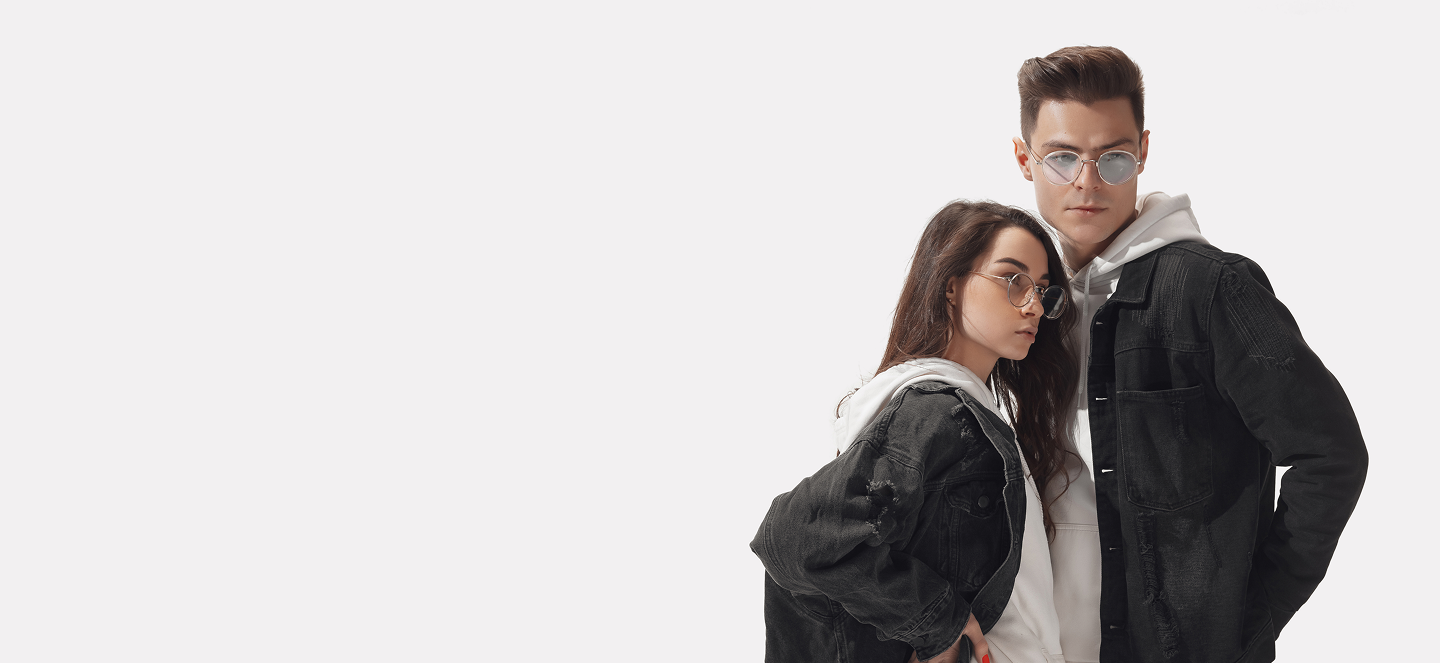
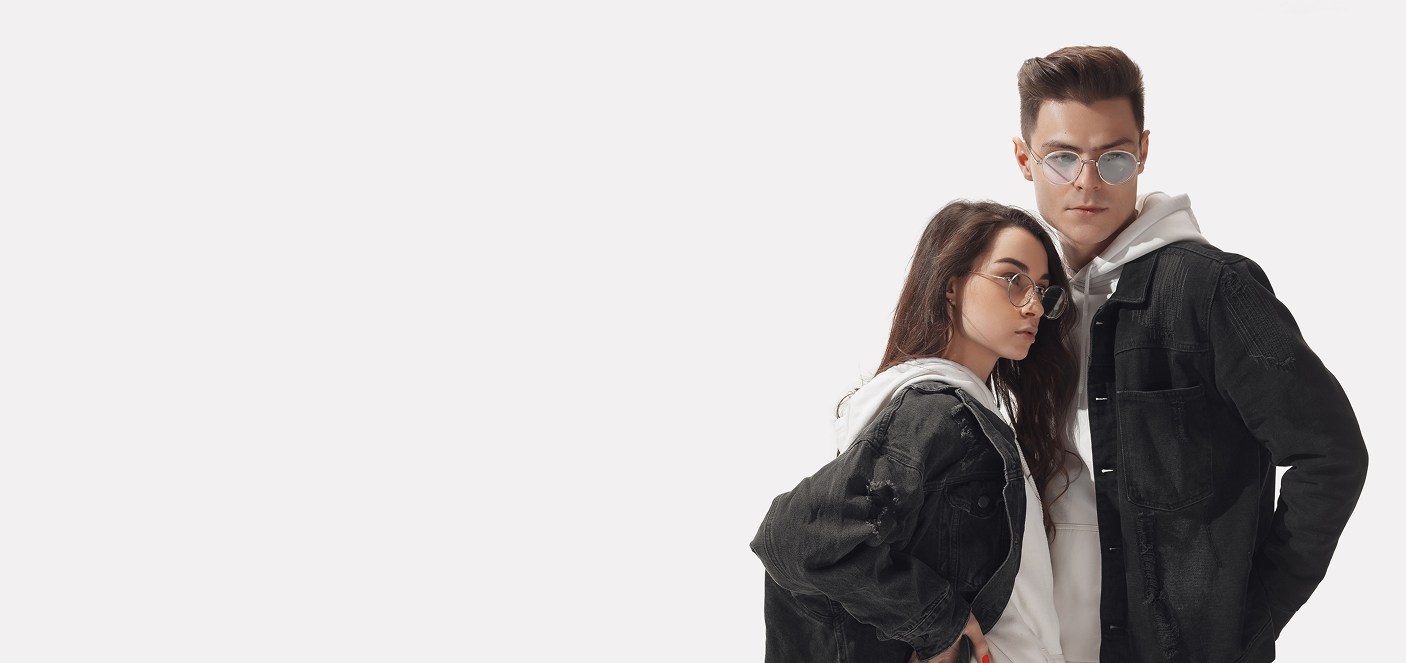
Add files via upload

Changed region(s): [[0.5199, 0.0603, 0.9787, 1.0], [0.5811, 0.905, 0.6117, 0.9351]]

diff --git a/Дипломный-проект/Diplom.html b/Дипломный-проект/Diplom.html
@@ -119,7 +119,9 @@
 		<div class="container hero__container">
 				<div class="hero__main-info">
 					<h1 class="hero__title title-large">
-						НАЙДИ ОДЕЖДУ КОТОРАЯ ВЫРАЗИТ ТВОЙ СТИЛЬ
+						НАЙДИ ОДЕЖДУ
+						КОТОРАЯ ВЫРАЗИТ
+						ТВОЙ СТИЛЬ
 					</h1>
 				<p class="hero__main-info-text text-comment">
 					Просмотрите наш набор тщательно сделанной одежды, созданный
@@ -152,9 +154,14 @@
 							</div>
 						</div>
 						<div class="hero__img">
-							<img src="./Images/fashion-menschen.png"
+							<img class="hero__img-picture-people" src="./Images/fashion-menschen.png"
 							 alt="">
-						</div>
+							 <img class="hero__img-picture-star star-1" src="./icons/black-star-hero.svg" alt="">
+							 <img class="hero__img-picture-star star-2" src="./icons/black-star-hero.svg" alt="">
+							 	<img class="hero__img-picture-people-small" src="./Images/fashion-menschen-small.png"
+							 alt="">
+							</div>
+							</div>
 					
 			</section>
 			<section class="brands">
@@ -192,12 +199,13 @@
 							</div>
 							<div class="brands-list-second-group">
 							<li class="brands-list-item">
-								<a href="#"
-									><svg id="prada" width="194" height="32">
+								<a href="#">
+									<svg id="prada" width="194" height="32">
 										<use
 											class="brands-icon-link--prada"
 											href="../icons/sprite-brands.svg#Prada"
-										></use></svg
+										></use>
+										</svg
 								></a>
 							</li>
 							<li class="brands-list-item">
@@ -447,25 +455,7 @@
 						</div>
 						
 				<div class="reviews__list swiper reviews__slider">
-					<divd class="swiper-wrapper reviews__list">
-							<article class="swiper-slide reviews__list-item">
-						<div class="reviews__slide-inner">
-						<div class="reviews__list-item-stars">
-						<svg class="reviews__list-item-stars-5">
-					<use	
-						href="./icons/sprite-stars.svg#5-stars">
-					</use>
-			</svg>	
-			</div>
-			<div class="reviews__list-item-name">
-				<p class="reviews__list-item-name-text">Виталий У.</p>
-			<img  class="reviews__list-item-name-check-mark" width="24" height="24" src="./icons/check-mark.svg" alt="белая галочка на зелёном фоне">
-			</div>
-			<p class="reviews__list-item-comment text-comment">
-				«Я в восторге от качества и стиля одежды, которую получил от Shop.co. От повседневных вещей до элегантных платьев — каждая покупка превзошла мои ожидания.»
-			</p>
-			</div>
-					</article>
+					<div class="swiper-wrapper reviews__list">
 					<article class="swiper-slide reviews__list-item">
 						<div class="reviews__slide-inner">
 						<div class="reviews__list-item-stars">
@@ -521,25 +511,8 @@
 			</p>
 			</div>
 					</article>
-					<article class="swiper-slide reviews__list-item">
-						<div class="reviews__slide-inner">
-						<div class="reviews__list-item-stars">
-						<svg class="reviews__list-item-stars-5">
-					<use	
-						href="./icons/sprite-stars.svg#5-stars">
-					</use>
-			</svg>	
-			</div>
-			<div class="reviews__list-item-name">
-				<p class="reviews__list-item-name-text">Виталий У.</p>
-			<img  class="reviews__list-item-name-check-mark" width="24" height="24" src="./icons/check-mark.svg" alt="белая галочка на зелёном фоне">
-			</div>
-			<p class="reviews__list-item-comment text-comment">
-				«Я в восторге от качества и стиля одежды, которую получил от Shop.co. От повседневных вещей до элегантных платьев — каждая покупка превзошла мои ожидания.»
-			</p>
-			</div>
-					</article>
-					</divd>
+
+					</div>
 					
 				</div>
 				</div>

diff --git a/Дипломный-проект/css/Blocks/hero.css b/Дипломный-проект/css/Blocks/hero.css
@@ -1,13 +1,14 @@
 .hero {
 	background: #f2f0f1;
 	z-index: -1;
+	position: relative;
 }
 
 .hero__container {
 	display: flex;
 }
 
-@media (width <= 992px) {
+@media (width <= 1440px) {
 	.hero__container {
 		flex-direction: column;
 	}
@@ -33,7 +34,7 @@
 }
 */
 .hero__main-info {
-	z-index: 1;
+	z-index: 2;
 	display: flex;
 	flex-direction: column;
 	padding-top: 97px;
@@ -170,12 +171,67 @@
 }
 
 .hero__img {
+	width: 100%;
+	overflow: hidden;
 	position: absolute;
+	left: 0%;
 	z-index: 0;
 }
 
-.hero__black-star {
+@media (width <= 992px) {
+	.hero__img {
+		position: relative;
+	}
+}
+
+@media (width < 992px) {
+	.hero__img-picture-people {
+		display: none;
+	}
+}
+
+@media (width >= 992px) {
+	.hero__img-picture-people-small {
+		display: none;
+	}
+}
+
+@media (width < 992px) {
+	.hero__img-picture-people-small {
+		display: flex;
+	}
+}
+
+.hero__img-picture-star {
+	position: absolute;
+}
+
+.star-1 {
+	left: 50%;
+	top: 50%;
 	width: 56px;
 	height: 56px;
-	color: var(--main-color);
+}
+
+@media (width < 1440px) {
+	.star-1 {
+		top: 40%;
+		left: 1%;
+		width: 44px;
+		height: 44px;
+	}
+}
+
+.star-2 {
+	top: 10%;
+	right: 2%;
+	width: 104px;
+	height: 104px;
+}
+
+@media (width < 1440px) {
+	.star-2 {
+		width: 76px;
+		height: 76px;
+	}
 }

diff --git a/Дипломный-проект/css/base/global.css b/Дипломный-проект/css/base/global.css
@@ -42,7 +42,7 @@ h2 {
 
 @media (width <= 526px) {
 	.title-comment {
-		font-size: 12px;
+		font-size: 10px;
 		line-height: 183%;
 	}
 }
@@ -53,31 +53,45 @@ h2 {
 	color: var(--main-color);
 }
 
+@media (width <= 768px) {
+	.text-comment {
+		font-size: 15px;
+		line-height: 157%;
+	}
+}
+
+@media (width <= 526px) {
+	.text-comment {
+		font-size: 14px;
+		line-height: 183%;
+	}
+}
+
 .title-large {
 	font-family: var(--font-family-title);
 	font-weight: 900;
-	font-size: 57px;
+	font-size: 50px;
 	line-height: 112%;
 	color: var(--main-color);
 }
 
 @media (width <= 992px) {
 	.title-large {
-		font-size: 50px;
+		font-size: 45px;
 		line-height: 110%;
 	}
 }
 
 @media (width <= 768px) {
 	.title-large {
-		font-size: 45px;
+		font-size: 40px;
 		line-height: 106%;
 	}
 }
 
 @media (width <= 480px) {
 	.title-large {
-		font-size: 32px;
+		font-size: 28px;
 		line-height: 106%;
 	}
 }

diff --git a/Дипломный-проект/css/Blocks/reviews.css b/Дипломный-проект/css/Blocks/reviews.css
@@ -4,7 +4,7 @@
 
 @media (width <= 768px) {
 	.reviews__container {
-		margin-bottom: 136 px;
+		margin-bottom: 220px;
 	}
 }
 
@@ -52,9 +52,16 @@
 	min-width: 358px;
 }
 
+@media (width <= 526px) {
+	.reviews__list-item {
+		padding: 24px;
+	}
+}
+
 @media (width <= 768px) {
 	.reviews__title {
 		margin-bottom: 24px;
+		white-space: wrap;
 	}
 }
 

diff --git a/Дипломный-проект/css/Blocks/mailing.css b/Дипломный-проект/css/Blocks/mailing.css
@@ -40,9 +40,15 @@
 @media (width <= 568px) {
 	.mailing__title {
 		text-align: start;
-		font-size: 30px;
+		font-size: 28px;
 		line-height: 117%;
 		min-height: 105px;
+	}
+}
+
+@media (width <= 440px) {
+	.mailing__title {
+		font-size: 26px;
 	}
 }
 

diff --git a/Дипломный-проект/css/Blocks/header.css b/Дипломный-проект/css/Blocks/header.css
@@ -20,7 +20,7 @@
 
 @media (width <= 768px) {
 	.header__container {
-		gap: clamp(96px, -12.313rem + 75.13vw, 380px);
+		justify-content: space-between;
 	}
 }
 
